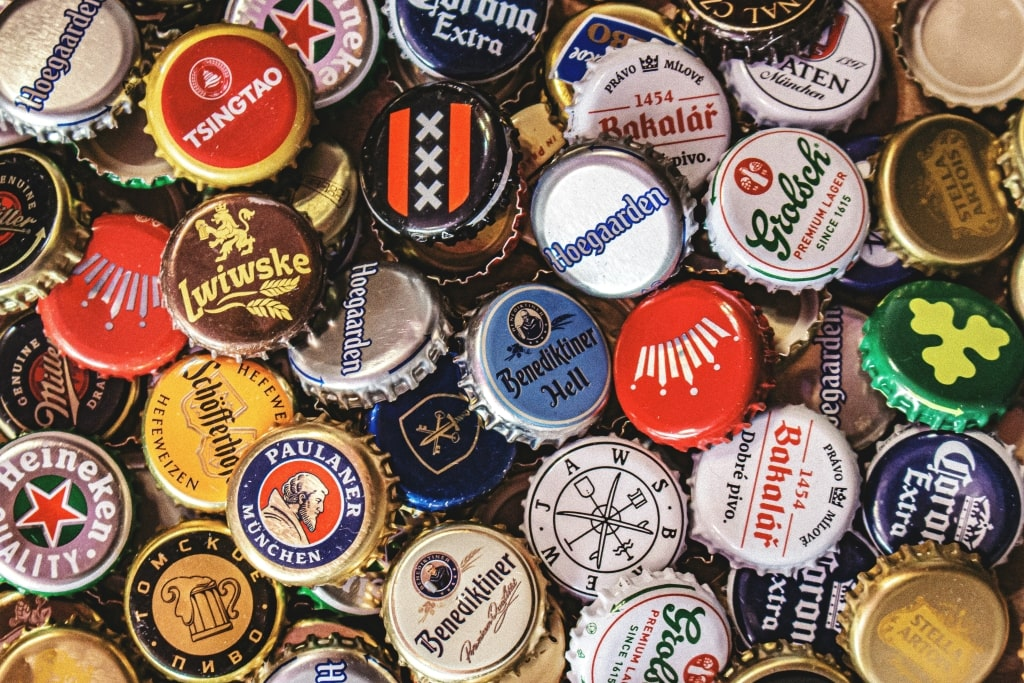
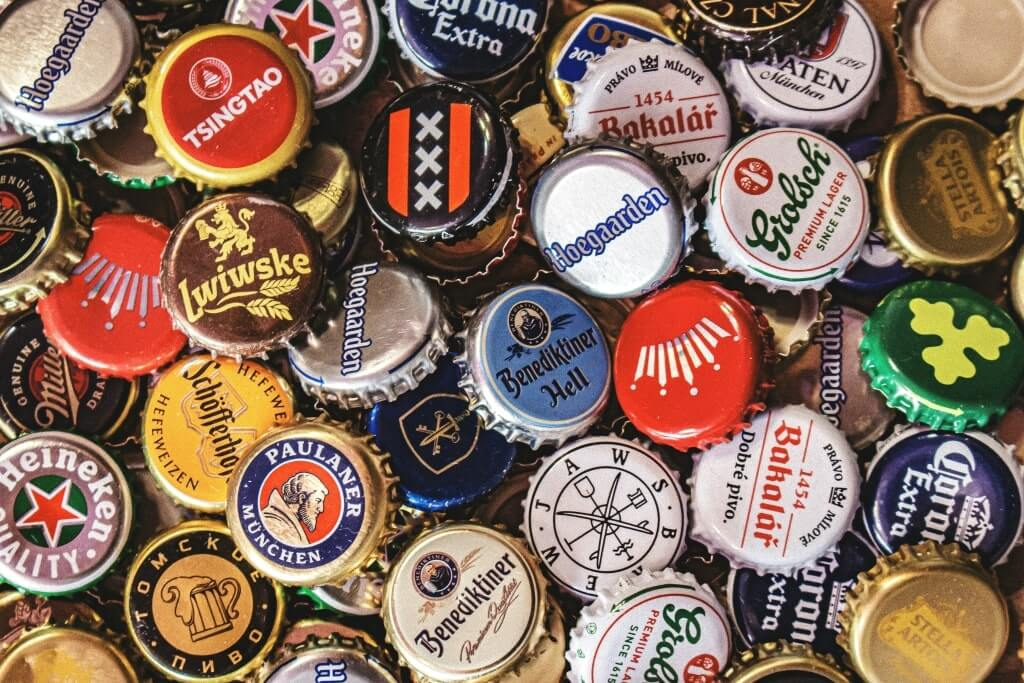
Update - BRCR Advogados (Otimização de imagens)

Changed region(s): [[0.625, 0.2767, 0.6562, 0.3075], [0.5625, 0.3382, 0.5938, 0.369]]

diff --git a/areas-de-atuacao.html b/areas-de-atuacao.html
@@ -105,7 +105,7 @@
           <div class="col-md-4 ">
             <div class="details ">
               <h2>Direito Trabalhista</h2>
-              <p>Soluções judiciais e extrajudiciais nas relações entre trabalhadores e empregados, buscando preservar a justiça com finalidade de construir um ambiente trabalhista mais harmonioso.</p>
+              <p>Promovemos equilíbrio nas relações de trabalho, com soluções legais e extrajudiciais para garantir justiça e harmonia.</p>
               <a href="direito-trabalhista.html">Ver Mais</a>
             </div>
           </div>

diff --git a/index.html b/index.html
@@ -126,7 +126,7 @@
           <div class="col-md-4 ">
             <div class="details ">
               <h2>Direito Trabalhista</h2>
-              <p>Soluções judiciais e extrajudiciais nas relações entre trabalhadores e empregados, buscando preservar a justiça com finalidade de construir um ambiente trabalhista mais harmonioso.</p>
+              <p>Promovemos equilíbrio nas relações de trabalho, com soluções legais e extrajudiciais para garantir justiça e harmonia.</p>
               <a href="direito-trabalhista.html">Ver Mais</a>
             </div>
           </div>

diff --git a/css/areas-de-atuacao/area-especifica.css b/css/areas-de-atuacao/area-especifica.css
@@ -42,7 +42,8 @@
 .area-especifica-introducao-contato li a {
   display: grid;
   grid-template-columns: auto 1fr;
-  gap: 0.5rem;
+  gap: 1rem;
+  align-items: center;
 }
 
 .area-especifica-introducao-contato a span {
@@ -71,5 +72,8 @@
   .area-especifica-introducao h2::before {
     top: -70px;
     left: -55px;
+  }
+  .area-especifica-introducao-contato a p {
+    grid-column: 1 / 3;
   }
 }

diff --git a/css/areas-de-atuacao/areas.css b/css/areas-de-atuacao/areas.css
@@ -137,7 +137,9 @@
   transition: 0.3s;
   background: var(--cor-p5);
 }
-
+.area-especifica-introducao-contato img {
+  width: 32px;
+}
 .objetivo {
   margin-top: 3rem;
 }
